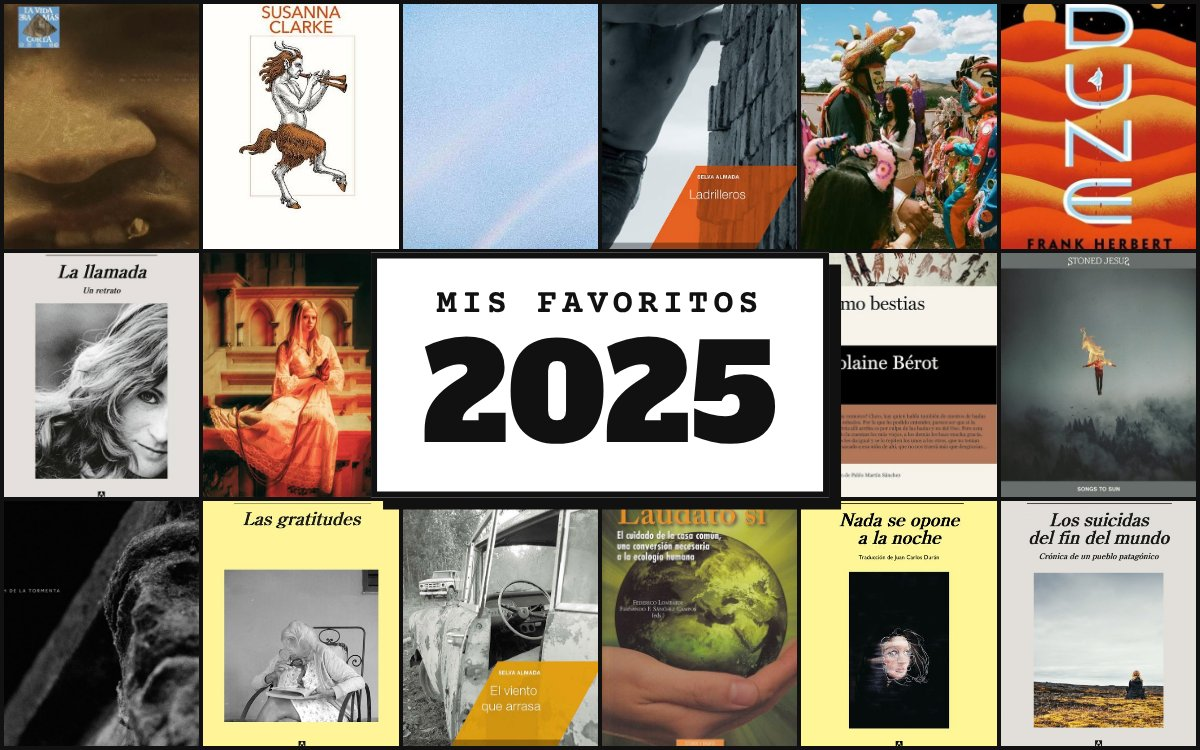
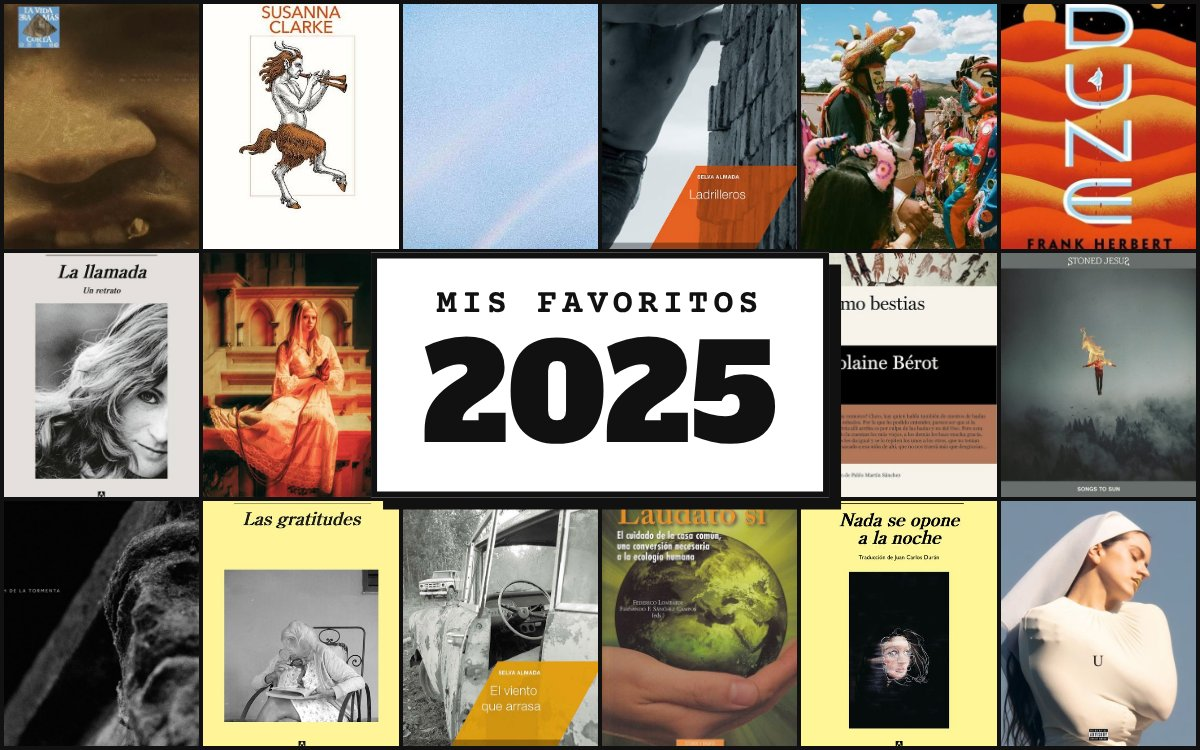
Favoritos 2025: agrega Lux de Rosalía
Claude-Session: https://claude.ai/code/session_01XA8AM6u7gpUR92ZEf2FbBM

Changed region(s): [[0.8325, 0.644, 1.0, 1.0]]

diff --git a/_posts/2025-12-20-favoritos-2025.md b/_posts/2025-12-20-favoritos-2025.md
@@ -14,6 +14,7 @@ Lo que más me gustó del 2025: discos, series, películas y libros. Todo lo que
 
 <div class="fav-muro" aria-label="Todas las tapas">
   <a href="#la-vida-era-mas-corta" title="La vida era más corta"><img src="/assets/img/posts/favoritos-2025/la-vida-era-mas-corta.jpg" alt="La vida era más corta" loading="lazy"></a>
+  <a href="#lux" title="Lux"><img src="/assets/img/posts/favoritos-2025/lux.jpg" alt="Lux" loading="lazy"></a>
   <a href="#never-enough" title="Never Enough"><img src="/assets/img/posts/favoritos-2025/never-enough.jpg" alt="Never Enough" loading="lazy"></a>
   <a href="#bar-scorpios" title="Bar Scorpios"><img src="/assets/img/posts/favoritos-2025/bar-scorpios.jpg" alt="Bar Scorpios" loading="lazy"></a>
   <a href="#private-music" title="private music"><img src="/assets/img/posts/favoritos-2025/private-music.jpg" alt="private music" loading="lazy"></a>
@@ -43,7 +44,7 @@ Lo que más me gustó del 2025: discos, series, películas y libros. Todo lo que
   <a href="#laudato-si" title="Laudato Si&#x27;"><img src="/assets/img/posts/favoritos-2025/laudato-si.jpg" alt="Laudato Si&#x27;" loading="lazy"></a>
 </div>
 
-<h2 class="fav-sec" id="discos">Discos <span>08</span></h2>
+<h2 class="fav-sec" id="discos">Discos <span>09</span></h2>
 
 <div class="favs">
 <article class="fav" id="la-vida-era-mas-corta">
@@ -52,6 +53,14 @@ Lo que más me gustó del 2025: discos, series, películas y libros. Todo lo que
     <h3 class="fav__titulo"><em>La vida era más corta</em></h3>
     <p class="fav__autor">Milo J</p>
     <p>Milo J irrumpió con 16 años y rápidamente se hizo un lugar en la escena del trap. Acá nos trae su disco más maduro hasta la fecha, donde fusiona el folklore argentino con sonidos urbanos. Mis favoritos: «Jangadero», «Bajo de la piel» y «Niño».</p>
+  </div>
+</article>
+<article class="fav" id="lux">
+  <img class="fav__tapa" src="/assets/img/posts/favoritos-2025/lux.jpg" alt="Tapa de Lux, de Rosalía" loading="lazy">
+  <div class="fav__txt">
+    <h3 class="fav__titulo"><em>Lux</em></h3>
+    <p class="fav__autor">Rosalía</p>
+    <p><em>Lux</em> es el disco más ambicioso de Rosalía, y posiblemente de cualquier artista mainstream de los últimos 20 años. La tradición europea se cruza con la modernidad para dar origen a esta obra conceptual. Ópera, pop, flamenco, fado, avant-garde: una maravilla. Favoritos: «Mio Cristo Piange Diamanti», «Reliquia» y «Dios es un stalker».</p>
   </div>
 </article>
 <article class="fav" id="never-enough">
